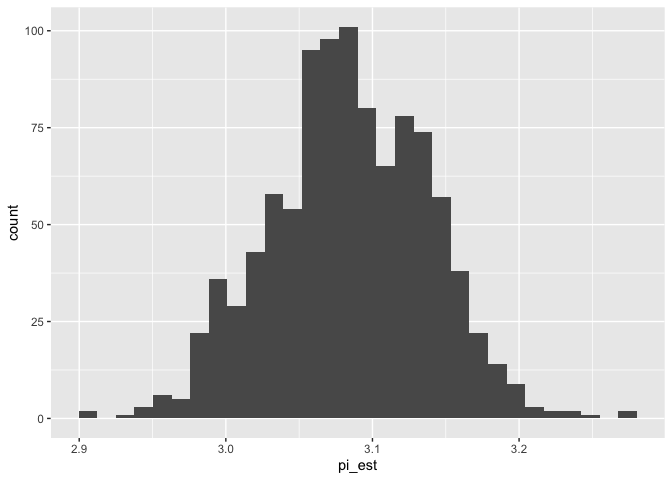
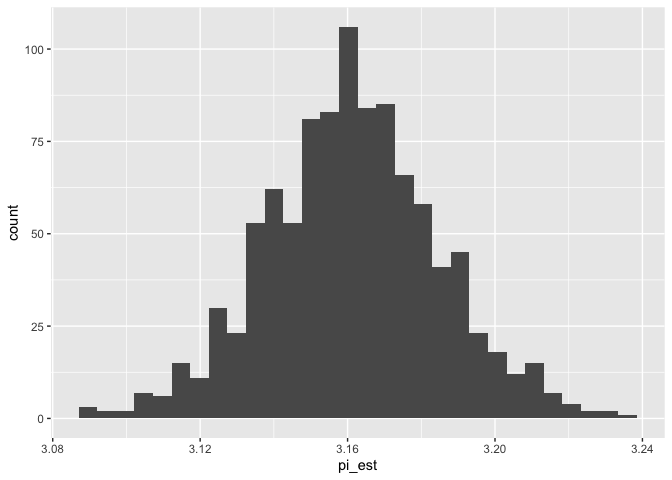
Knit revised c07

diff --git a/challenges/c07-monte-carlo-assignment.md b/challenges/c07-monte-carlo-assignment.md
@@ -1,7 +1,7 @@
 Estimating Pi With a Shotgun
 ================
-(Your name here)
-2020-
+Carter Harris
+2025-04-22
 
 - [Grading Rubric](#grading-rubric)
   - [Individual](#individual)
@@ -197,7 +197,7 @@ square $x \in [0, 1]$ and $y \in [0, 1]$.
 
 ``` r
 ## TASK: Choose a sample size and generate samples
-n <- 1000 # Choose a sample size
+n <- 5000 # Choose a sample size
 # Generate the data
 df_q1 <-
   tibble(
@@ -331,7 +331,7 @@ df_q3
     ## # A tibble: 1 × 1
     ##   pi_est
     ##    <dbl>
-    ## 1   3.08
+    ## 1   3.16
 
 Use the following to check that you’ve used the correct variable names.
 (NB. This does not check correctness.)
@@ -412,7 +412,10 @@ df_q4 %>%
 
 - What is a range of plausible values, based on the sampling
   distribution you’ve generated?
-  - (Your response here)
+  - Plausible values of pi range from roughly 3.125 to 3.325 based on
+    the distribution generated above. While the entire range falls
+    between roughly 3.05 and 3.375, the vast majority of values falls
+    within the smaller range first presented.
 
 ### **q5** Bootstrap percentile confidence interval
 
@@ -441,7 +444,7 @@ df_q5
     ## # A tibble: 1 × 2
     ##   pi_lo pi_up
     ##   <dbl> <dbl>
-    ## 1  2.98  3.18
+    ## 1  3.11  3.21
 
 ### **q6** CLT confidence interval
 
@@ -457,40 +460,51 @@ in both q5 and q6. If they disagree strongly, that suggests that you’ve
 done something *wrong* in one of the tasks….
 
 ``` r
-df_q4 %>% 
+df_q1 %>%
+  mutate(stat = stat(x, y)) %>% 
   summarize(
-    pi_lo = mean(pi_est) - qnorm(1 - alpha / 2) * (sd(pi_est)/sqrt(n)),
-    pi_up = mean(pi_est) + qnorm(1 - alpha / 2) * (sd(pi_est)/sqrt(n))
+    pi_est = mean(stat),
+    sd = sd(stat),
+    se = sd / sqrt(length(stat))
+    ) %>% 
+  mutate(
+    pi_lo = pi_est - (1.96 * se),
+    pi_hi = pi_est + (1.96 * se)
   )
 ```
 
-    ## # A tibble: 1 × 2
-    ##   pi_lo pi_up
-    ##   <dbl> <dbl>
-    ## 1  3.08  3.09
+    ## # A tibble: 1 × 5
+    ##   pi_est    sd     se pi_lo pi_hi
+    ##    <dbl> <dbl>  <dbl> <dbl> <dbl>
+    ## 1   3.16  1.63 0.0230  3.12  3.21
 
 **Observations**:
 
 - Does your intervals include the true value of $\pi$?
   - Bootstrap does include the true value of pi.
-  - CLT does NOT include the true value of pi.
+  - CLT also does include the true value of pi.
 - How closely do your bootstrap CI and CLT CI agree?
-  - Overall, the CLT CI is much narrower compared to the bootstrap CI.
-    However, this narrower range is contained within the bootstrap
-    confidence interval. As a whole, they agree.
+  - Overall, the two confidence intervals are extremely similar to each
+    each other. There is slight variations on the order of thousandths,
+    but overall the difference between the two is inconsequential.
 - Comment on the width of your CI(s). Would your estimate of $\pi$ be
   good enough for roughly estimating an area (e.g., to buy enough paint
   for an art project)? Would your estimate of $\pi$ be good enough for
   precisely calculating a trajectory (e.g., sending a rocket into
   orbit)?
-  - Pi is already often approximated, and drawing from the middle of
-    either of these ranges would probably result in a close enough value
-    for rough estimation. For this purpose, our estimation is good.
+  - Pi is already often approximated, and drawing from the either of
+    these ranges would probably result in a close enough value for rough
+    estimation. For this purpose, our estimation is good.
   - Our estimate of pi is NOT good enough for precise calculation. There
     remains a small amount of error that would be magnified in any
     situation that would require precision calculations.
 - What would be a *valid* way to make your CI more narrow?
   - Collecting a greater sample size would make the CI more narrow.
+    - Initially, I was running a sample size of 1000, but was getting
+      significant variation between runs in the CLT approximation. To
+      increase the convergence and consistency between runs, I increased
+      this sample size to 5000. Further increases to the sample size
+      would cause this estimate to converge further.
 
 # References
 
